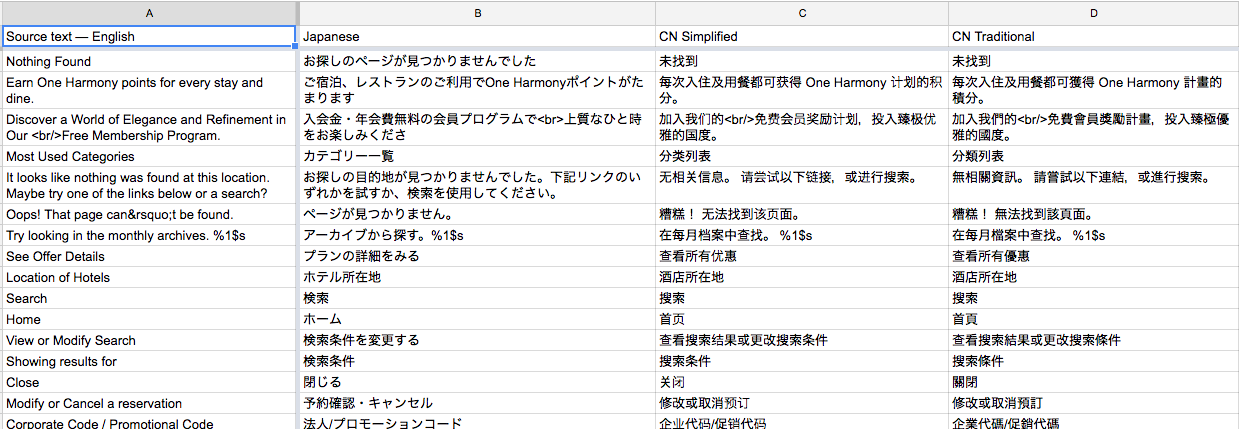
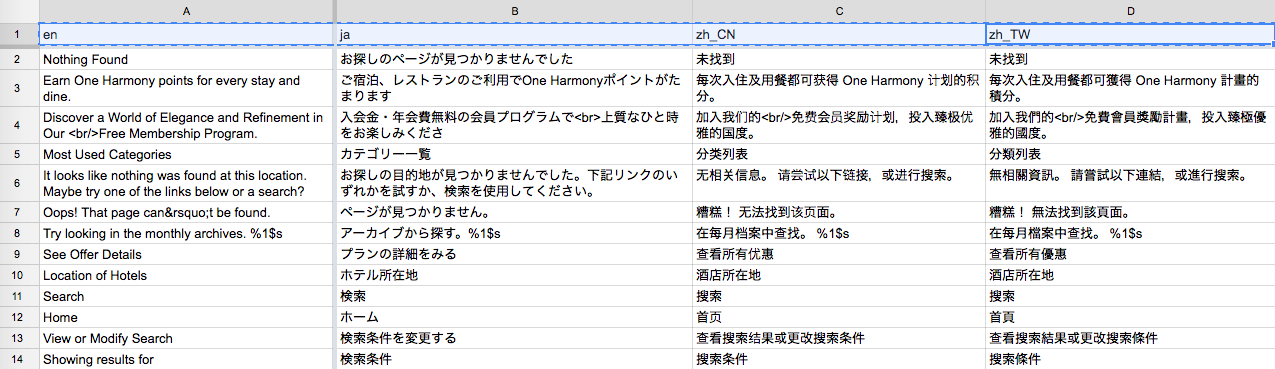
refactor(language): remove language config

diff --git a/index.js b/index.js
@@ -8,13 +8,13 @@ import {
 	DOCUMENT_ID,
 	LANGUAGE_FOLDER,
 	TRANSLATION_FILE,
-	LANGUAGES
 } from './config';
 import {
 	authorizeEvent
 } from './auth';
 
-let location = path.join( __dirname, '../', LANGUAGE_FOLDER );
+let location          = path.join( __dirname, '../', LANGUAGE_FOLDER );
+let languages_columns = [];
 
 authorizeEvent()
 	.then( getLanguageLocation )
@@ -73,7 +73,7 @@ function convertToJSON() {
 		let CVSlocation = path.join( location, TRANSLATION_FILE + '.csv' );
 
 		fs.readFile( CVSlocation, 'UTF-8', ( err, result ) => {
-			
+			languages_columns = result.split( '\n' )[ 0 ].trim().split( ',' ).slice( 1 );
 			// format string to support escaping of characters
 			converter.preProcessRaw = ( data, conv ) => {
 				data = data.replace( /\\""/g, '\\\\\\"');
@@ -98,41 +98,41 @@ function generatePO( translations ) {
 	let translation_table = new Map();
 
 	// set PO header for each column
-	LANGUAGES.forEach( ( value, key ) => {
+	languages_columns.map( ( lang ) => {
 		let header_str = `msgid ""
 msgstr ""
 "Content-Type: text/plain; charset=UTF-8\\n"
 "Content-Transfer-Encoding: 8bit\\n"
 "MIME-Version: 1.0\\n"
-"Language: ${key}\\n"
+"Language: ${lang}\\n"
 "X-Generator: FB-google-drive-to-json-po-mo 1.0.0\\n"
 
 `;
 
-		translation_table.set( key, header_str );
+		translation_table.set( lang, header_str );
 	} );
 
 	translations.map( ( translation ) => {
 		let english = Object.keys( translation )[ 0 ];
-		LANGUAGES.forEach( ( value, key ) => {
+		languages_columns.map( ( lang ) => {
 			let phrase = `msgid "${translation[ english ]}"
-msgstr "${translation[value]}"
+msgstr "${translation[lang]}"
 
 `;
 
-			let current_translation = translation_table.get( key ) + phrase;
-			translation_table.set( key, current_translation )
+			let current_translation = translation_table.get( lang ) + phrase;
+			translation_table.set( lang, current_translation )
 		} );
 	} );
 
-	LANGUAGES.forEach( ( value, key ) => {
-		let PO_location      = path.join( location, key + '.po' );
-		let translation_lang = translation_table.get( key );
+	languages_columns.map( ( lang ) => {
+		let PO_location      = path.join( location, lang + '.po' );
+		let translation_lang = translation_table.get( lang );
 
 		fs.writeFile( PO_location, translation_lang, ( err ) => {
 			if ( err ) throw err;
-			log_date( `PO file[ ${value} ] ${PO_location}` );
-			saveMO( key, translation_lang );
+			log_date( `PO file[ ${lang} ] ${PO_location}` );
+			saveMO( lang, translation_lang );
 		} );
 	} );
 

diff --git a/config.js b/config.js
@@ -12,11 +12,3 @@ export const DOCUMENT_ID = '10k7d0qv8U4lRhrKwQaT3jFJJZ74edWvaEHiyHB48F7Y';
 
 // File name of translation file to be stored at the LANGUAGE_FOLDER
 export const TRANSLATION_FILE = 'translation';
-
-// Language code with its corresponding header title on Google Docs
-// [ 'language_code', 'header_title']
-export const LANGUAGES = new Map ( [
-	[ 'ja', 'Japanese' ],
-	[ 'zh_CN', 'CN Simplified' ],
-	[ 'zh_TW', 'CN Traditional' ]
-] );

diff --git a/readme.md b/readme.md
@@ -4,21 +4,12 @@ Update config.js file for project settings.
    
    - **LANGUAGE_FOLDER** location
 
-   - **DOCUMENT_ID** for Google Drive Document ID
+   - **DOCUMENT_ID** for Google Drive Document ID 
+      *(Note: row 1 should be set to the language code)*
 
       ![Google SpreadSheet Format](img/sheet-format.png?raw=true "Google SpreadSheet Format")
 
    - **TRANSLATION_FILE** for the filename of the generated csv and json
-
-   - **LANGUAGES** map configuration starting from the second column
-
-      ```
-      export const LANGUAGES = new Map ( [
-      	[ 'ja', 'Japanese' ],
-      	[ 'zh_CN', 'CN Simplified' ],
-      	[ 'zh_TW', 'CN Traditional' ]
-      ] );
-      ```
 
 ## Running the script
 ```
